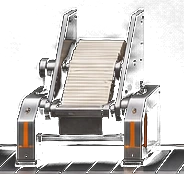
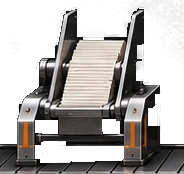
Line: dark metal inside a machine's outline stays solid (the push's right post was half see-through); applied to the claim, sandbox, gate, push and press sprites

diff --git a/scripts/make-line-sprites.py b/scripts/make-line-sprites.py
@@ -16,6 +16,12 @@ def key(img, lo=LO, hi=HI):
     chroma = a.max(-1) - a.min(-1); alpha = np.clip((lum - lo) / (hi - lo), 0, 1); alpha = np.maximum(alpha, np.clip((chroma - 14) / 20, 0, 1))
     out = np.dstack([a, alpha * 255]).astype(np.uint8); return Image.fromarray(out, 'RGBA')
 
+def key_solid(img, size=13, lo=LO, hi=HI):
+    """Like key(), but dark metal INSIDE the outline stays solid (a binary closing fills the dark faces of posts and housings that the plain key would make see-through)."""
+    from PIL import ImageFilter
+    rgba = key(img, lo, hi); a = np.asarray(rgba).copy(); m = Image.fromarray(((a[..., 3] > 60) * 255).astype(np.uint8), 'L').filter(ImageFilter.MaxFilter(size)).filter(ImageFilter.MinFilter(size)); closed = np.asarray(m) > 128
+    a[..., 3] = np.where(closed, np.maximum(a[..., 3], 255), a[..., 3]); return Image.fromarray(a)
+
 def paint(img, box, rgb):
     a = np.asarray(img).copy(); x0, y0, x1, y1 = box; a[y0:y1, x0:x1] = rgb; return Image.fromarray(a)
 
@@ -35,12 +41,12 @@ def emit(name, rgba, box):
 
 BG_DARK = (12, 13, 12)
 # --- the six machines and the hopper / bin
-emit('claim', key(SRC.crop((298, 222, 482, 396))), (298, 222, 482, 396))
-emit('sandbox', key(SRC.crop((506, 222, 664, 396))), (506, 222, 664, 396))
-gate = key(SRC.crop((868, 226, 1036, 398))); emit('gate', gate, (868, 226, 1036, 398))
-emit('push', key(SRC.crop((1054, 256, 1212, 398))), (1054, 256, 1212, 398))
+emit('claim', key_solid(SRC.crop((298, 222, 482, 396))), (298, 222, 482, 396))
+emit('sandbox', key_solid(SRC.crop((506, 222, 664, 396))), (506, 222, 664, 396))
+gate = key_solid(SRC.crop((868, 226, 1036, 398))); emit('gate', gate, (868, 226, 1036, 398))
+emit('push', key_solid(SRC.crop((1054, 256, 1212, 398))), (1054, 256, 1212, 398))
 # press: paint out the parcel that is baked in under it (a real parcel now rides there)
-pr = paint(SRC, (1272, 300, 1352, 357), BG_DARK); emit('press', key(pr.crop((1222, 212, 1408, 398))), (1222, 212, 1408, 398))
+pr = paint(SRC, (1272, 300, 1352, 357), BG_DARK); emit('press', key_solid(pr.crop((1222, 212, 1408, 398))), (1222, 212, 1408, 398))
 # the parcel itself, cut from that same spot of the artwork
 emit('parcel', key(SRC.crop((1274, 304, 1350, 362)), lo=30, hi=52), (1274, 304, 1350, 362))
 # hopper with its front panel cut away so parcels can pile up from the bottom inside it
